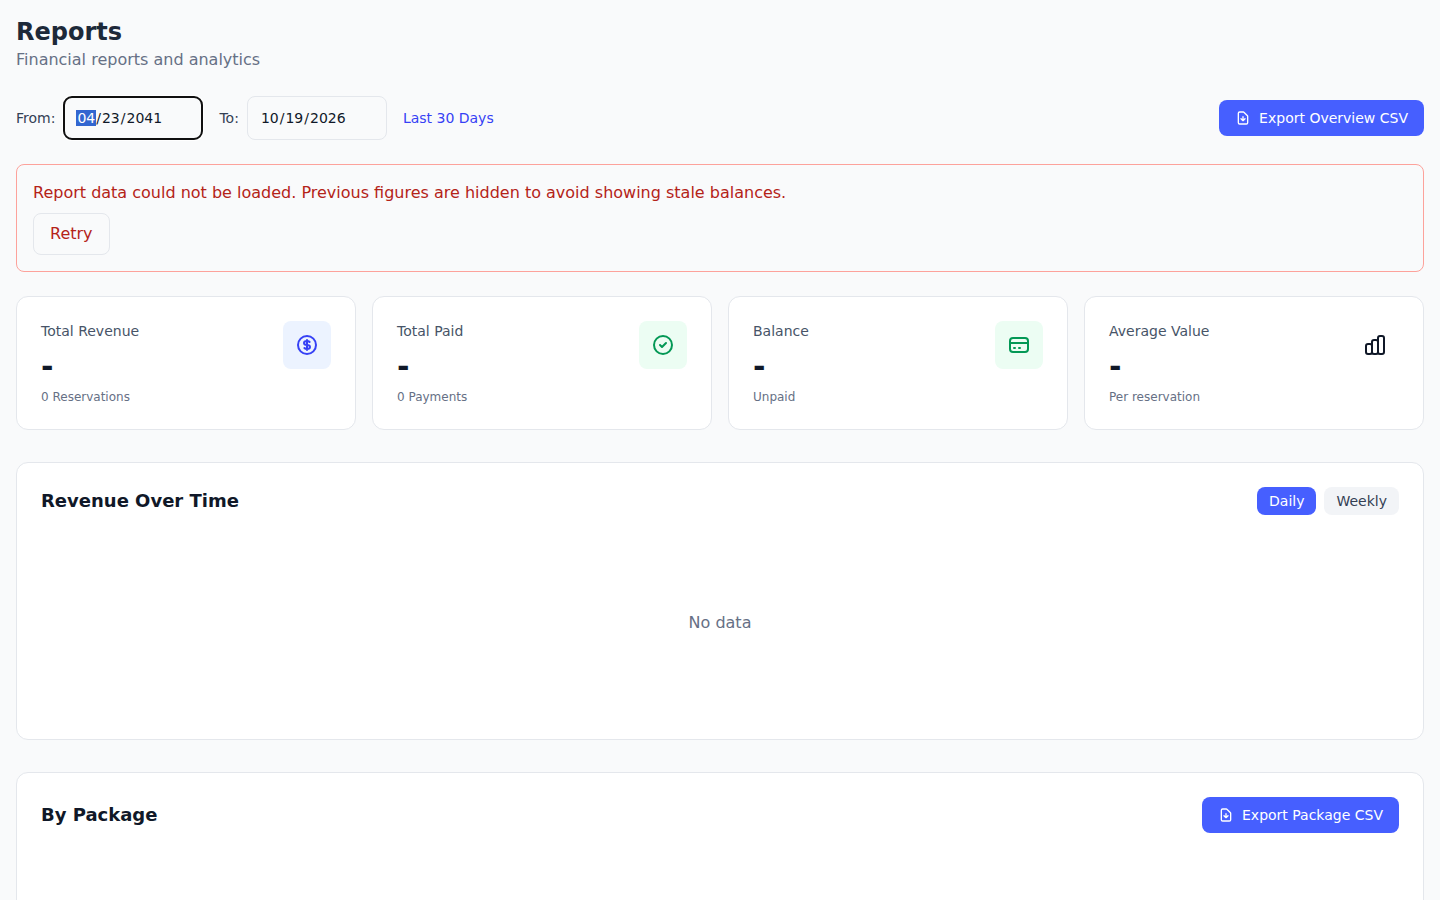
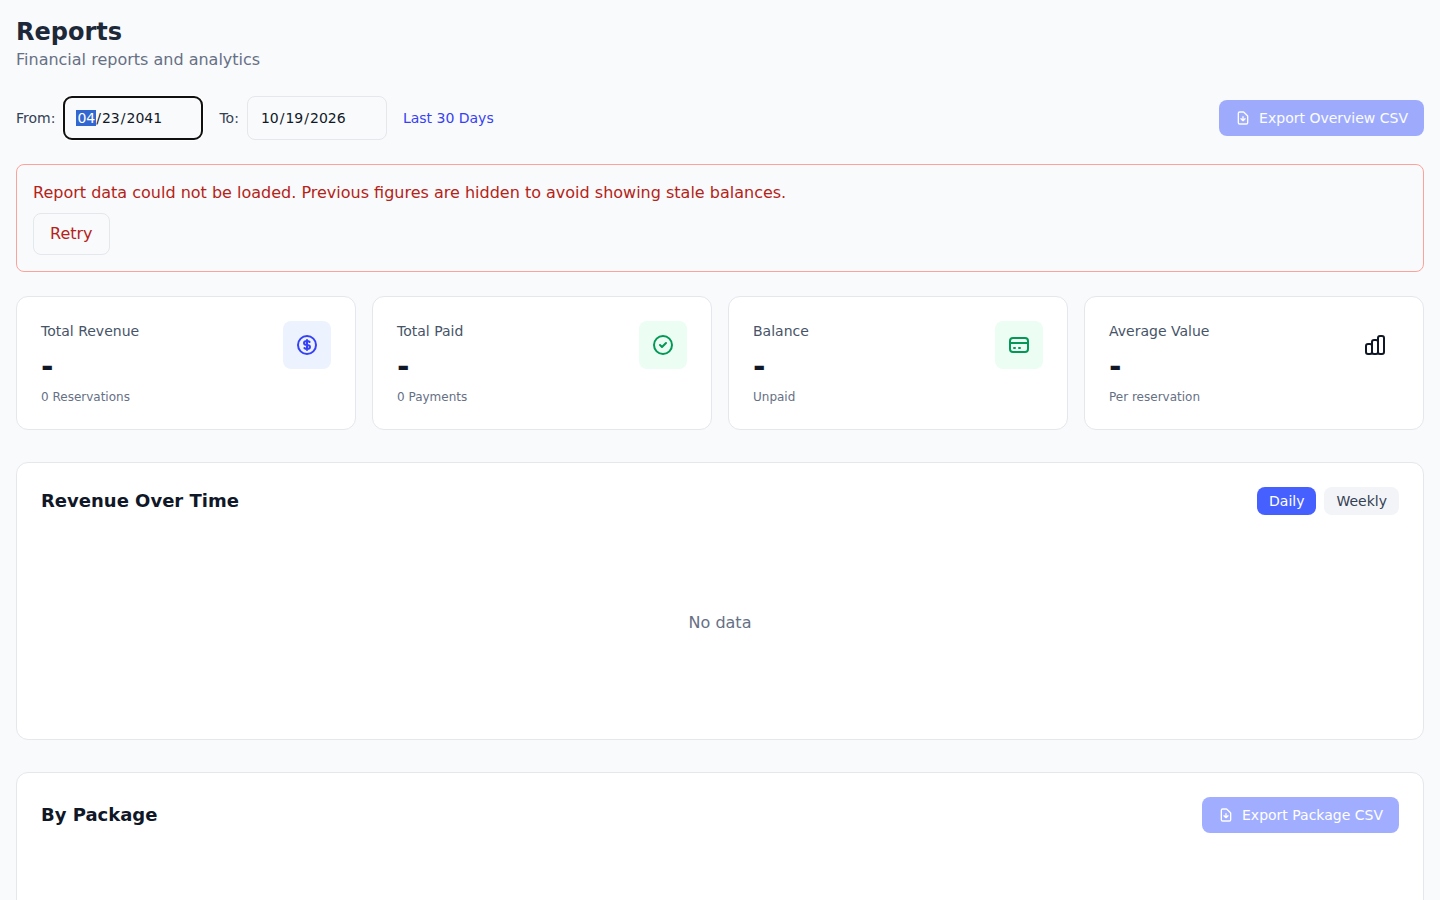
fix(theme): preserve inherited modal and finance text contrast

Changed region(s): [[0.8438, 0.0933, 1.0, 0.1556], [0.8125, 0.8711, 0.9688, 0.9333]]

diff --git a/nmt-analytics-admin/src/pages/Reports.tsx b/nmt-analytics-admin/src/pages/Reports.tsx
@@ -177,7 +177,7 @@ export default function Reports() {
                 description={t.reports.description}
             />
 
-            <div className="w-full max-w-full">
+            <div className="w-full max-w-full text-gray-900 dark:text-gray-100">
                 <div className="mb-6">
                     <h1 className="text-2xl font-bold text-gray-800 dark:text-white/90">{t.reports.title}</h1>
                     <p className="text-gray-500 dark:text-gray-400">{t.reports.description}</p>
@@ -231,7 +231,7 @@ export default function Reports() {
                     <button
                         disabled={loading || loadError || !overview}
                         onClick={exportOverviewCSV}
-                        className="ml-auto px-4 py-2 text-sm font-medium text-white bg-brand-500 hover:bg-brand-600 rounded-lg transition-colors flex items-center gap-2 shrink-0"
+                        className="disabled:cursor-not-allowed disabled:opacity-50 ml-auto px-4 py-2 text-sm font-medium text-white bg-brand-500 hover:bg-brand-600 rounded-lg transition-colors flex items-center gap-2 shrink-0"
                     >
                         <svg className="w-4 h-4" fill="none" stroke="currentColor" viewBox="0 0 24 24">
                             <path strokeLinecap="round" strokeLinejoin="round" strokeWidth={2} d="M12 10v6m0 0l-3-3m3 3l3-3m2 8H7a2 2 0 01-2-2V5a2 2 0 012-2h5.586a1 1 0 01.707.293l5.414 5.414a1 1 0 01.293.707V19a2 2 0 01-2 2z" />
@@ -370,7 +370,7 @@ export default function Reports() {
                         <button
                             disabled={loading || loadError || !overview}
                             onClick={exportPackageCSV}
-                            className="px-4 py-2 text-sm font-medium text-white bg-brand-500 hover:bg-brand-600 rounded-lg transition-colors flex items-center gap-2 shrink-0"
+                            className="disabled:cursor-not-allowed disabled:opacity-50 px-4 py-2 text-sm font-medium text-white bg-brand-500 hover:bg-brand-600 rounded-lg transition-colors flex items-center gap-2 shrink-0"
                         >
                             <svg className="w-4 h-4" fill="none" stroke="currentColor" viewBox="0 0 24 24">
                                 <path strokeLinecap="round" strokeLinejoin="round" strokeWidth={2} d="M12 10v6m0 0l-3-3m3 3l3-3m2 8H7a2 2 0 01-2-2V5a2 2 0 012-2h5.586a1 1 0 01.707.293l5.414 5.414a1 1 0 01.293.707V19a2 2 0 01-2 2z" />

diff --git a/nmt-analytics-admin/e2e/pilot-finance-audit.spec.ts b/nmt-analytics-admin/e2e/pilot-finance-audit.spec.ts
@@ -19,7 +19,8 @@ for(const theme of ['light','dark'])for(const width of [390,768,1440])test(`real
  await page.evaluate(theme=>{localStorage.setItem('travline_lang','en');localStorage.setItem('theme',theme);},theme);
  await page.goto(`/reservations/${res.id}`);await page.evaluate(theme=>document.documentElement.classList.toggle('dark',theme==='dark'),theme);
  await page.getByRole('button',{name:'Uplate',exact:true}).click();await page.getByRole('button',{name:'Evidentiraj uplatu',exact:true}).click();
- const form=page.getByRole('form',{name:'Add Payment',exact:true});await expect(form.getByLabel('Amount *',{exact:true})).toHaveValue('90');
+ const form=page.getByRole('form',{name:'Add Payment',exact:true});
+ if(theme==='dark')expect(await form.locator('label').evaluateAll(nodes=>nodes.every(e=>Number(getComputedStyle(e).color.match(/\d+/)?.[0])>=150))).toBe(true);await expect(form.getByLabel('Amount *',{exact:true})).toHaveValue('90');
  await form.getByLabel('Amount *',{exact:true}).fill('12');await form.getByLabel('Method',{exact:true}).selectOption('cash');await form.getByRole('button',{name:'Cancel',exact:true}).click();
  await page.getByRole('button',{name:'Evidentiraj uplatu',exact:true}).click();await expect(form.getByLabel('Amount *',{exact:true})).toHaveValue('90');await expect(form.getByLabel('Method',{exact:true})).toHaveValue('');
  let intercepted=0;await page.route('**/api/payments',async route=>{if(route.request().method()!=='POST'){await route.continue();return;}intercepted++;if(intercepted===1)await route.fulfill({status:503,json:{error:{code:'AUDIT_SYNTHETIC_FAILURE',message:'Synthetic failure'}}});else {await new Promise(r=>setTimeout(r,300));await route.continue();}});

diff --git a/nmt-analytics-admin/e2e/finance-forms/main.tsx b/nmt-analytics-admin/e2e/finance-forms/main.tsx
@@ -14,8 +14,8 @@ const payment: Payment = { id:'00000000-0000-4000-8000-000000000022', reservatio
 export default function Harness() {
  const [open,setOpen]=useState(false);
  const surface=new URLSearchParams(location.search).get('surface');
- if(surface==='reports') return <main className="min-h-screen bg-gray-50 p-4 text-gray-900 dark:bg-gray-950 dark:text-gray-100"><Reports/></main>;
+ if(surface==='reports') return <main className="min-h-screen bg-gray-50 p-4 text-gray-900 dark:bg-gray-950"><Reports/></main>;
  const props={isOpen:open,onClose:()=>setOpen(false)};
- return <main className="min-h-screen bg-gray-50 p-4 text-gray-900 dark:bg-gray-950 dark:text-gray-100"><button onClick={()=>setOpen(true)}>Open form</button>{surface==='edit'?<EditPaymentModal {...props} payment={payment}/>:surface==='list'?<PaymentsModal {...props} reservationId={payment.reservationId} reservationTotal={180}/>:<AddPaymentModal {...props} reservationId={payment.reservationId}/>}</main>;
+ return <main className="min-h-screen bg-gray-50 p-4 text-gray-900 dark:bg-gray-950"><button onClick={()=>setOpen(true)}>Open form</button>{surface==='edit'?<EditPaymentModal {...props} payment={payment}/>:surface==='list'?<PaymentsModal {...props} reservationId={payment.reservationId} reservationTotal={180}/>:<AddPaymentModal {...props} reservationId={payment.reservationId}/>}</main>;
 }
 createRoot(document.getElementById('root')!).render(<HelmetProvider><I18nProvider><ToastProvider><Harness/></ToastProvider></I18nProvider></HelmetProvider>);

diff --git a/nmt-analytics-admin/src/components/departures/SupplierPayablesPanel.tsx b/nmt-analytics-admin/src/components/departures/SupplierPayablesPanel.tsx
@@ -108,7 +108,7 @@ export default function SupplierPayablesPanel({ departureId, costs, onChanged }:
   const money = (value: number, currency: string) => `${value.toLocaleString(lang === 'bs' ? 'bs-BA' : 'en-GB', { minimumFractionDigits: 2, maximumFractionDigits: 2 })} ${currency}`;
   const classes = 'min-w-0 w-full rounded-lg border border-gray-300 p-2 dark:border-gray-700 dark:bg-gray-900';
   const title = form?.kind === 'issue' ? c.issue : form?.kind === 'payment' ? c.record : form?.kind === 'reversal' ? c.reverse : c.cancel;
-  return <section className="min-w-0 rounded-2xl border border-gray-200 bg-white p-5 dark:border-gray-800 dark:bg-white/[0.03]" aria-label={c.title}>
+  return <section className="min-w-0 text-gray-900 dark:text-gray-100 rounded-2xl border border-gray-200 bg-white p-5 dark:border-gray-800 dark:bg-white/[0.03]" aria-label={c.title}>
     <div className="flex flex-wrap items-center justify-between gap-3"><h2 className="font-semibold dark:text-white">{c.title}</h2>
       <Button onClick={() => open({ kind: 'issue' })} disabled={loading || saving || !!pending || !rows || !eligible.length}>{c.issue}</Button></div>
     <p className="mt-2 text-sm text-gray-500 dark:text-gray-400">{c.description}</p>

diff --git a/nmt-analytics-admin/e2e/pilot-supplier-payables.spec.ts b/nmt-analytics-admin/e2e/pilot-supplier-payables.spec.ts
@@ -88,6 +88,7 @@ for (const theme of ['light','dark']) for (const width of [390,768,1440]) for (c
     await modal.getByLabel(c.amount, { exact: true }).fill('60'); await modal.getByLabel(c.paymentDate).fill('2026-10-15');
     await modal.getByLabel(c.reference).fill('Recorded test transfer');
     let entryRequests=0;await page.route(`**/api/supplier-payables/${payableId}/entries`,async route=>{entryRequests++;await new Promise(resolve=>setTimeout(resolve,250));await route.continue();});
+    if(theme==='dark')expect(await modal.locator('label').evaluateAll(nodes=>nodes.every(e=>Number(getComputedStyle(e).color.match(/\d+/)?.[0])>=150))).toBe(true);
     await testInfo.attach(`payable-form-${theme}-${scenario.width}`,{body:await page.screenshot(),contentType:'image/png'});
     const paying = page.waitForResponse(r => r.request().method() === 'POST' && r.url().endsWith(`/supplier-payables/${payableId}/entries`));
     await modal.locator('form').evaluate(e=>{e.dispatchEvent(new Event('submit',{bubbles:true,cancelable:true}));e.dispatchEvent(new Event('submit',{bubbles:true,cancelable:true}));}); const payment = await json(await paying);expect(entryRequests).toBe(1);

diff --git a/nmt-analytics-admin/e2e/finance-forms/reports.spec.ts b/nmt-analytics-admin/e2e/finance-forms/reports.spec.ts
@@ -8,7 +8,8 @@ for(const theme of ['light','dark'])for(const width of [390,768,1440])test(`repo
   const path=new URL(route.request().url()).pathname;
   await route.fulfill({json:path.endsWith('overview-v2')?{total_amount_sum:180,total_paid_sum:60,total_balance_sum:120,reservations_count:1,payments_count:1,currency:'BAM',availableCurrencies:['BAM']}:path.endsWith('by-package')?[]:[]});
  });
- await page.goto('/e2e/finance-forms/index.html?surface=reports');await expect(page.getByText(/180[,.]00/).first()).toBeVisible();fail=true;
+ await page.goto('/e2e/finance-forms/index.html?surface=reports');
+ if(theme==='dark')expect(await page.locator('input[type=date]').evaluateAll(nodes=>nodes.every(e=>Number(getComputedStyle(e).color.match(/\d+/)?.[0])>=150))).toBe(true);await expect(page.getByText(/180[,.]00/).first()).toBeVisible();fail=true;
  await page.locator('input[type=date]').first().fill('2041-04-23');
  await expect(page.getByRole('alert')).toBeVisible();await expect(page.getByText(/180[,.]00/)).toHaveCount(0);
  await expect(page.getByRole('button',{name:'Export Overview CSV',exact:true})).toBeDisabled();

diff --git a/nmt-analytics-admin/e2e/finance-forms/payments.spec.ts b/nmt-analytics-admin/e2e/finance-forms/payments.spec.ts
@@ -17,6 +17,8 @@ for (const surface of ['add','edit','list']) for (const theme of ['light','dark'
   const open=async()=>{await page.getByRole('button',{name:'Open form'}).click();if(surface==='list')await page.getByRole('button',{name:'+ Add Payment',exact:true}).click();};
   await open();const form=page.getByRole('form',{name:surface==='edit'?'Edit Payment':'Add Payment',exact:true});
   await expect(form.getByLabel('Status',{exact:true})).toHaveValue('succeeded');
+  const labelColors=await form.locator('label').evaluateAll(nodes=>nodes.map(e=>Number(getComputedStyle(e).color.match(/\d+/)?.[0])));
+  expect(labelColors.every(red=>theme==='dark'?red>=150:red<=80),'Modal labels must remain legible with the app default inherited text color').toBe(true);
   await form.getByLabel('Method',{exact:true}).selectOption('bank_transfer');await form.getByRole('button',{name:'Cancel',exact:true}).click();
   if(surface==='list')await page.getByRole('button',{name:'+ Add Payment',exact:true}).click();else await open();
   await expect(form.getByLabel('Method',{exact:true})).toHaveValue(surface==='edit'?'cash':'');

diff --git a/nmt-analytics-admin/src/components/ui/modal/index.tsx b/nmt-analytics-admin/src/components/ui/modal/index.tsx
@@ -65,7 +65,7 @@ export const Modal: React.FC<ModalProps> = ({
       )}
       <div
         ref={modalRef}
-        className={`${contentClasses}  ${className}`}
+        className={`${contentClasses} text-gray-900 dark:text-gray-100 ${className}`}
         onClick={(e) => e.stopPropagation()}
       >
         {showCloseButton && (

diff --git a/docs/operations/forms-finance-audit/REPORT.md b/docs/operations/forms-finance-audit/REPORT.md
@@ -34,7 +34,7 @@ All nine PRs were open drafts and unmerged when reviewed. Their fixes were not c
 - Real browser evidence exposed inconsistent report populations: overview/by-package/series used `created_at`, while CSV and summary used `reservation_at`. The three screen endpoints now filter/bucket by the canonical booking date, with separate late-entry regressions. Payment-metric query failures in overview/series now fail closed rather than silently publishing partial zero totals.
 - The header-only API test unnecessarily contacted the external example Supabase host. It now mocks database access; unit defaults point to localhost. Real database connectivity is asserted by disposable acceptance, not by a header unit test.
 
-No shared global Input, Select, Modal or FormModal implementation is modified: their overlapping fixes are already owned by #120/#122/#123/#128. Domain-specific repeated payment controls were consolidated at their source.
+Shared Modal now supplies default light/dark body text colors; existing Input, Select and FormModal fixes remain owned by #122/#123/#128. The text-color addition complements #120 and does not duplicate its focus, lock or title-spacing implementation. Domain-specific repeated payment controls were consolidated at their source.
 
 ## Evidence and workflow status
 
@@ -70,3 +70,9 @@ Safari/iOS/Firefox and native OS picker dialogs are not tested. Focus trapping a
 ## First authenticated run — retained failure evidence
 
 At `fbd35223ba9a65c7929a96975f8265854aee5300`, [CI 39257397470](https://github.com/ismail-alibegovic/NMT-ANALYTICS/actions/runs/39257397470) passed all six gates. [Acceptance 39257397925](https://github.com/ismail-alibegovic/NMT-ANALYTICS/actions/runs/39257397925) passed 25 contract checks and **41/54** real scenarios. All six actual payment/installment/edit/refund/reload cases passed. Six report cases exposed the booking-date inconsistency fixed above. Six expense cases reached successful creation, note-clear persistence and deletion, then stopped because the test expected JSON/200 instead of the endpoint's correct empty 204 response. One finance case stopped after successful amount correction because the test read `reservation` instead of `affectedReservations`. Those test assertions are corrected; the rest of those flows require the new run. No final PASS is inferred past a stopped boundary. The next matrix additionally verifies embedded standalone payment creation/reload and both CSV exports, and attaches open-form captures.
+
+## Authenticated screenshot review — contrast defect
+
+[Actual dark payment before correction](before-real-add-form-dark-390.png) · [Actual dark supplier form before correction](before-real-payable-form-dark-390.png).
+
+At `3db2c96da6ff9c0934e30e7949c41cb77974ea64`, [CI 39259325808](https://github.com/ismail-alibegovic/NMT-ANALYTICS/actions/runs/39259325808) and [acceptance 39259325764](https://github.com/ismail-alibegovic/NMT-ANALYTICS/actions/runs/39259325764) passed all gates, 25 contracts and 54 real scenarios. All 48 authenticated captures were extracted and inspected. They exposed inherited black text on dark modal bodies and supplier rows. The test harness had supplied a light inherited text color and masked this defect. It now uses the app's default inherited text color; its dark-label regression fails before the fix. Shared Modal supplies light/dark body text defaults, SupplierPayablesPanel supplies its section text default, and Reports supplies its page default. Both export buttons now visibly reflect disabled state. The matrix checks actual inherited label color and is rerun after these corrections. This visual failure is not erased by the earlier functional PASS. The long Bosnian payable title still overlaps the close affordance at mobile width on this branch; #120 already owns that separate unmerged title-spacing fix. Other modal consumers remain NOT TESTED until individually verified.
